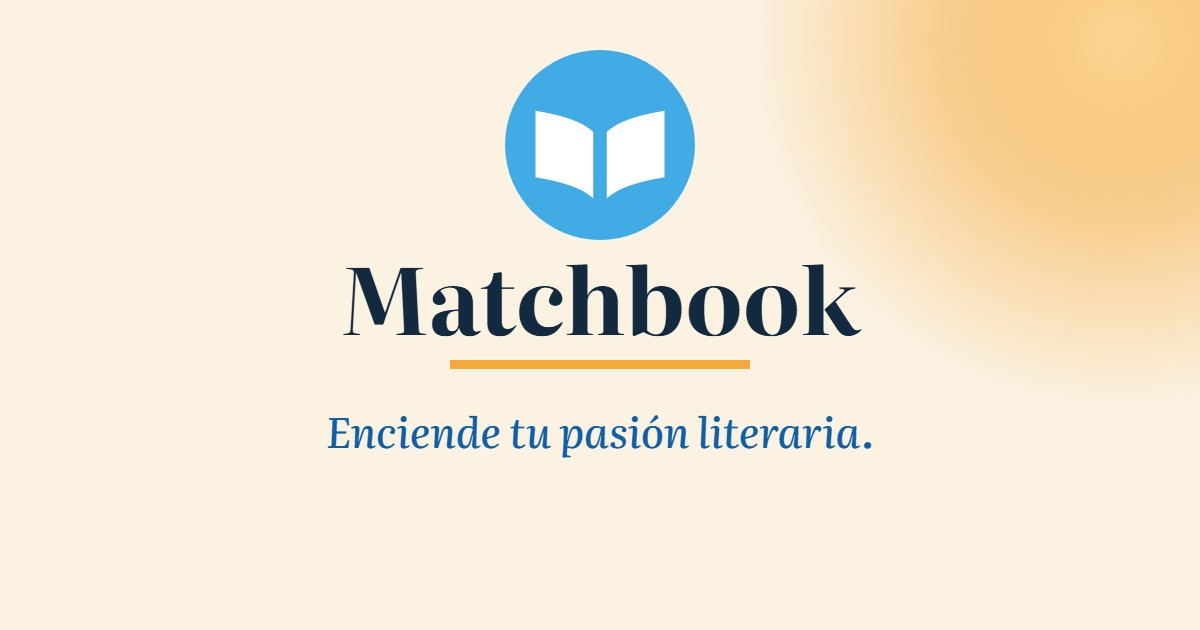
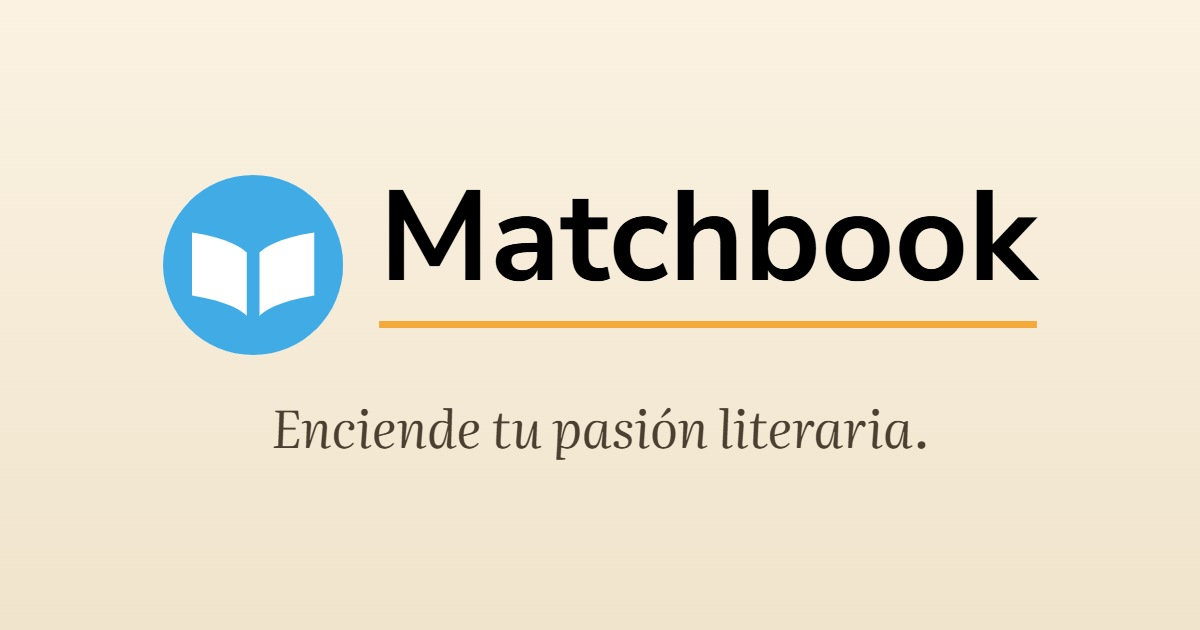
analytics

Changed region(s): [[0.1233, 0.0, 1.0, 0.573], [0.2158, 0.6333, 0.7708, 0.7238], [0.37, 0.573, 0.6475, 0.6032]]

diff --git a/index.html b/index.html
@@ -2,6 +2,14 @@
 <html lang="es">
 <head>
 <meta charset="UTF-8">
+<!-- Google tag (gtag.js) -->
+<script async src="https://www.googletagmanager.com/gtag/js?id=G-L6STBWJFWJ"></script>
+<script>
+  window.dataLayer = window.dataLayer || [];
+  function gtag(){dataLayer.push(arguments);}
+  gtag('js', new Date());
+  gtag('config', 'G-L6STBWJFWJ');
+</script>
 <meta name="viewport" content="width=device-width, initial-scale=1.0">
 
 <title>Matchbook · Clubes de Lectura en Santiago, Viña y Valparaíso</title>